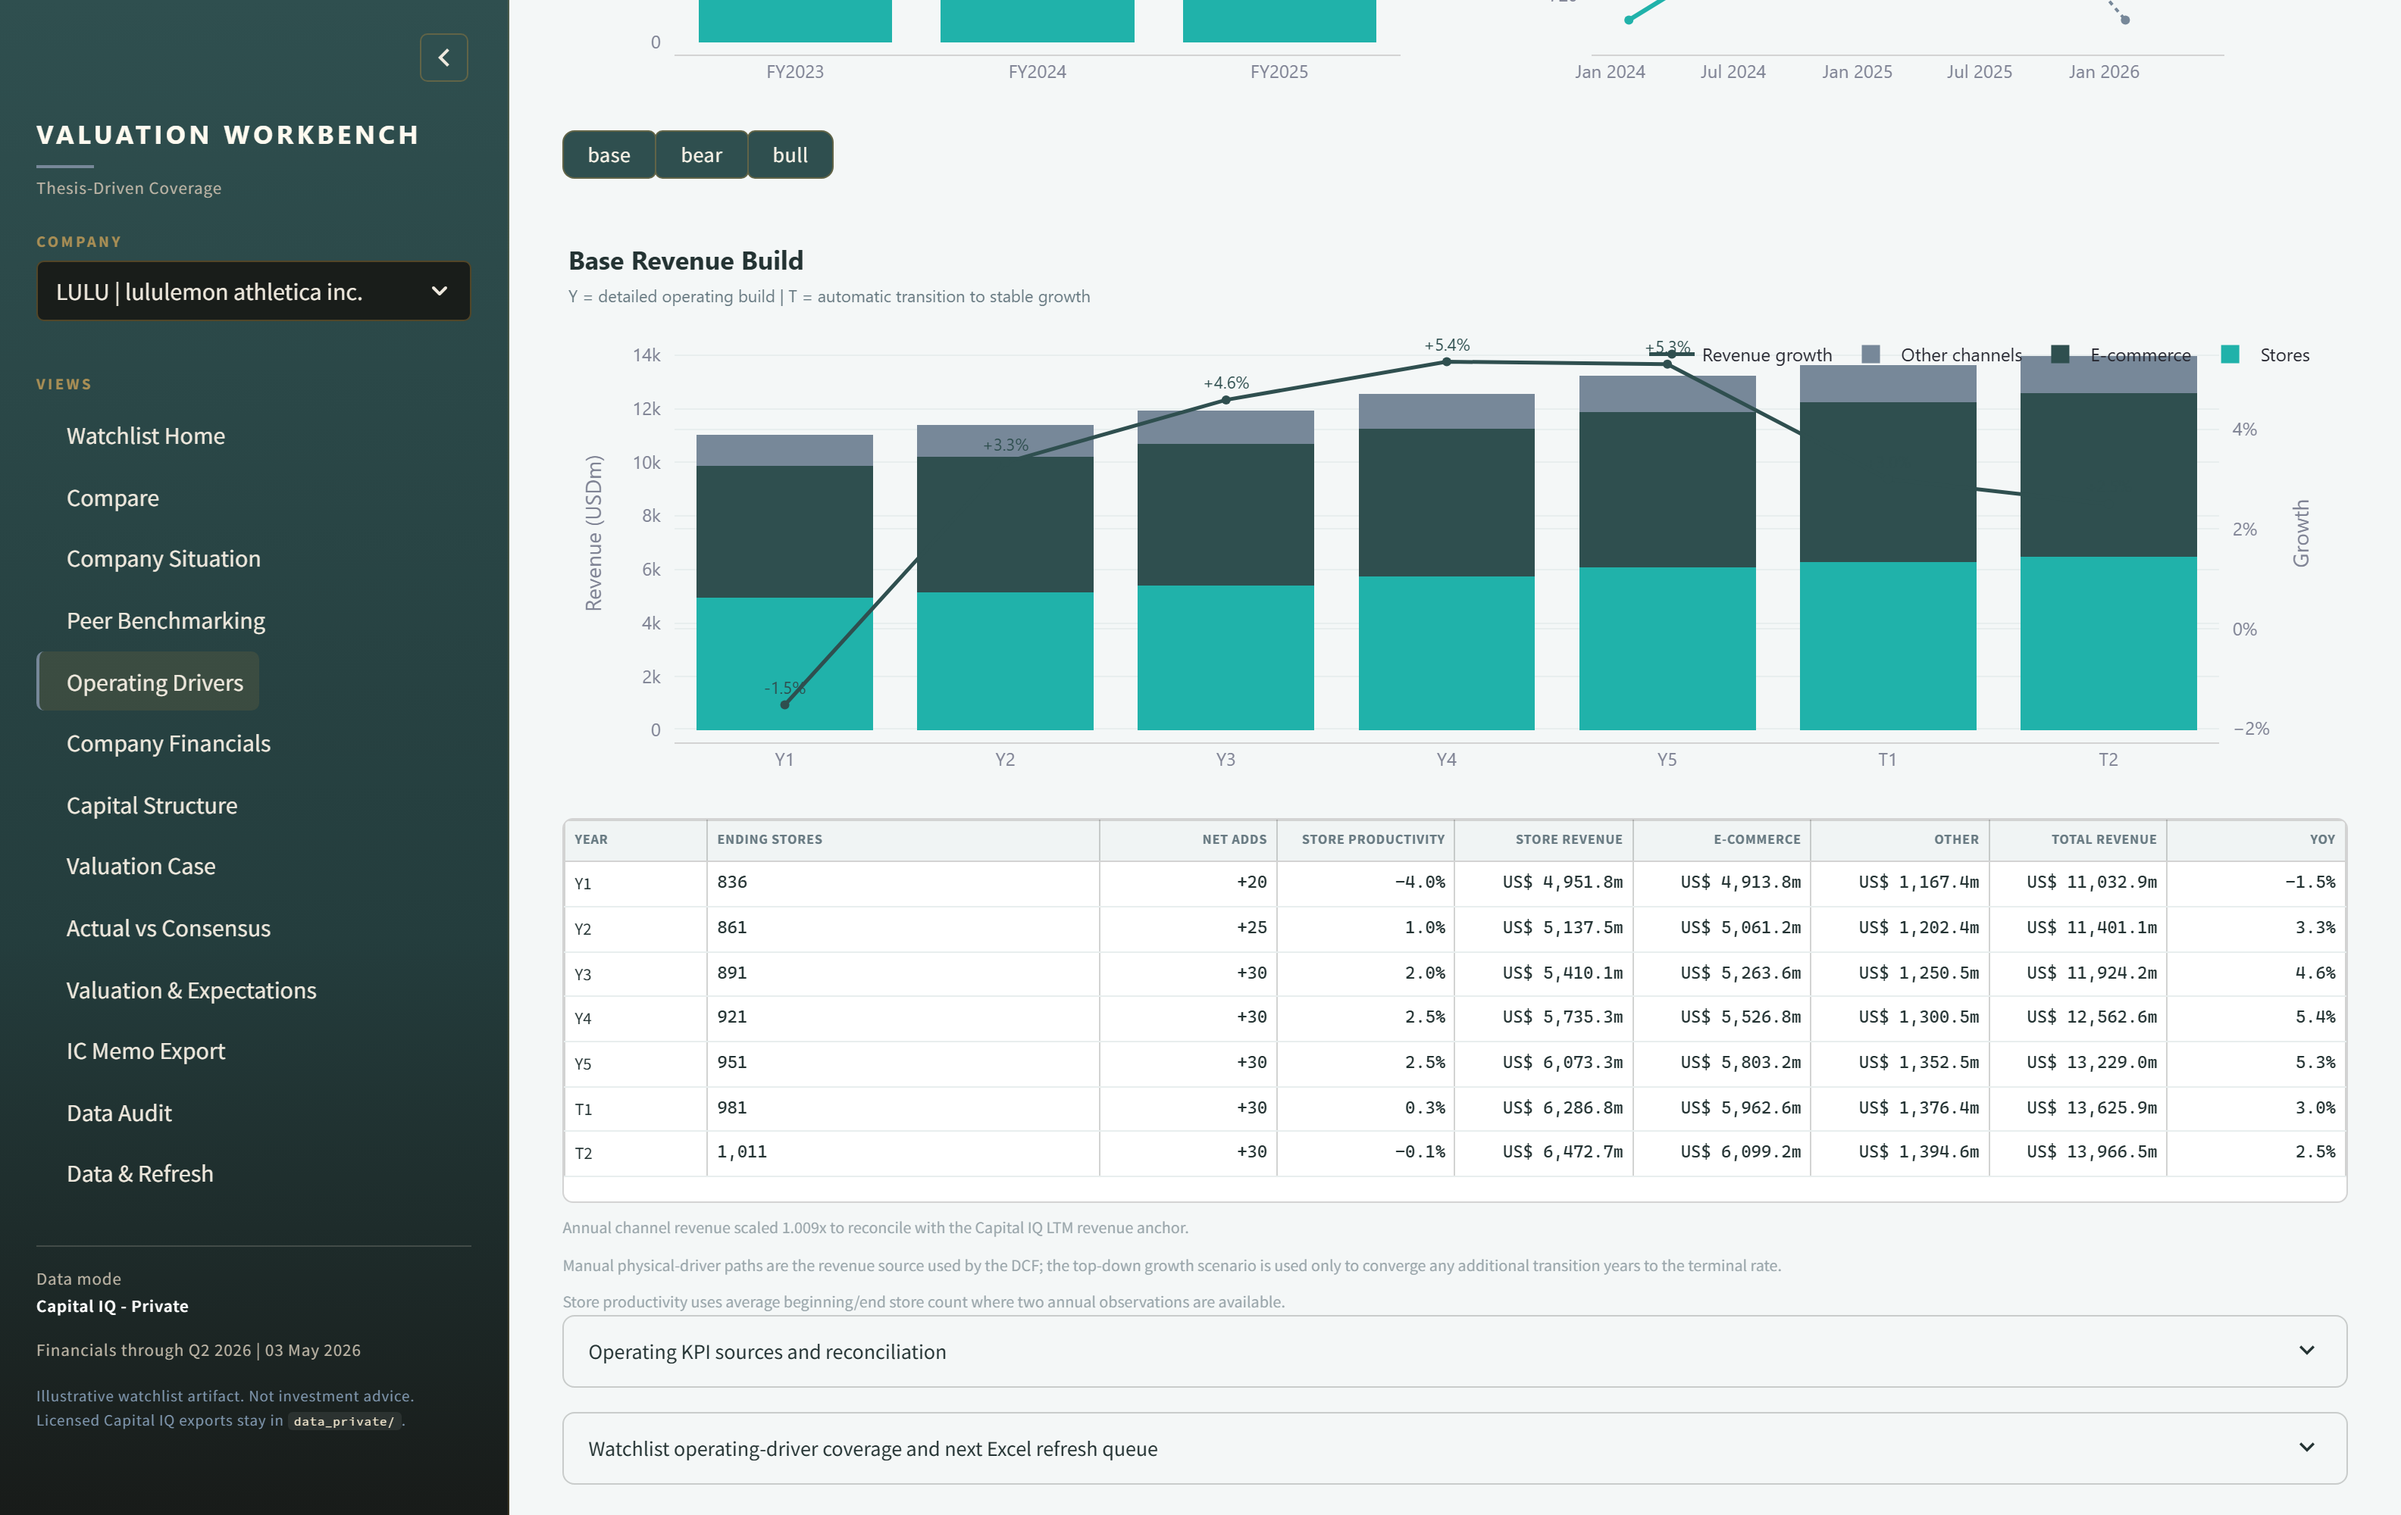
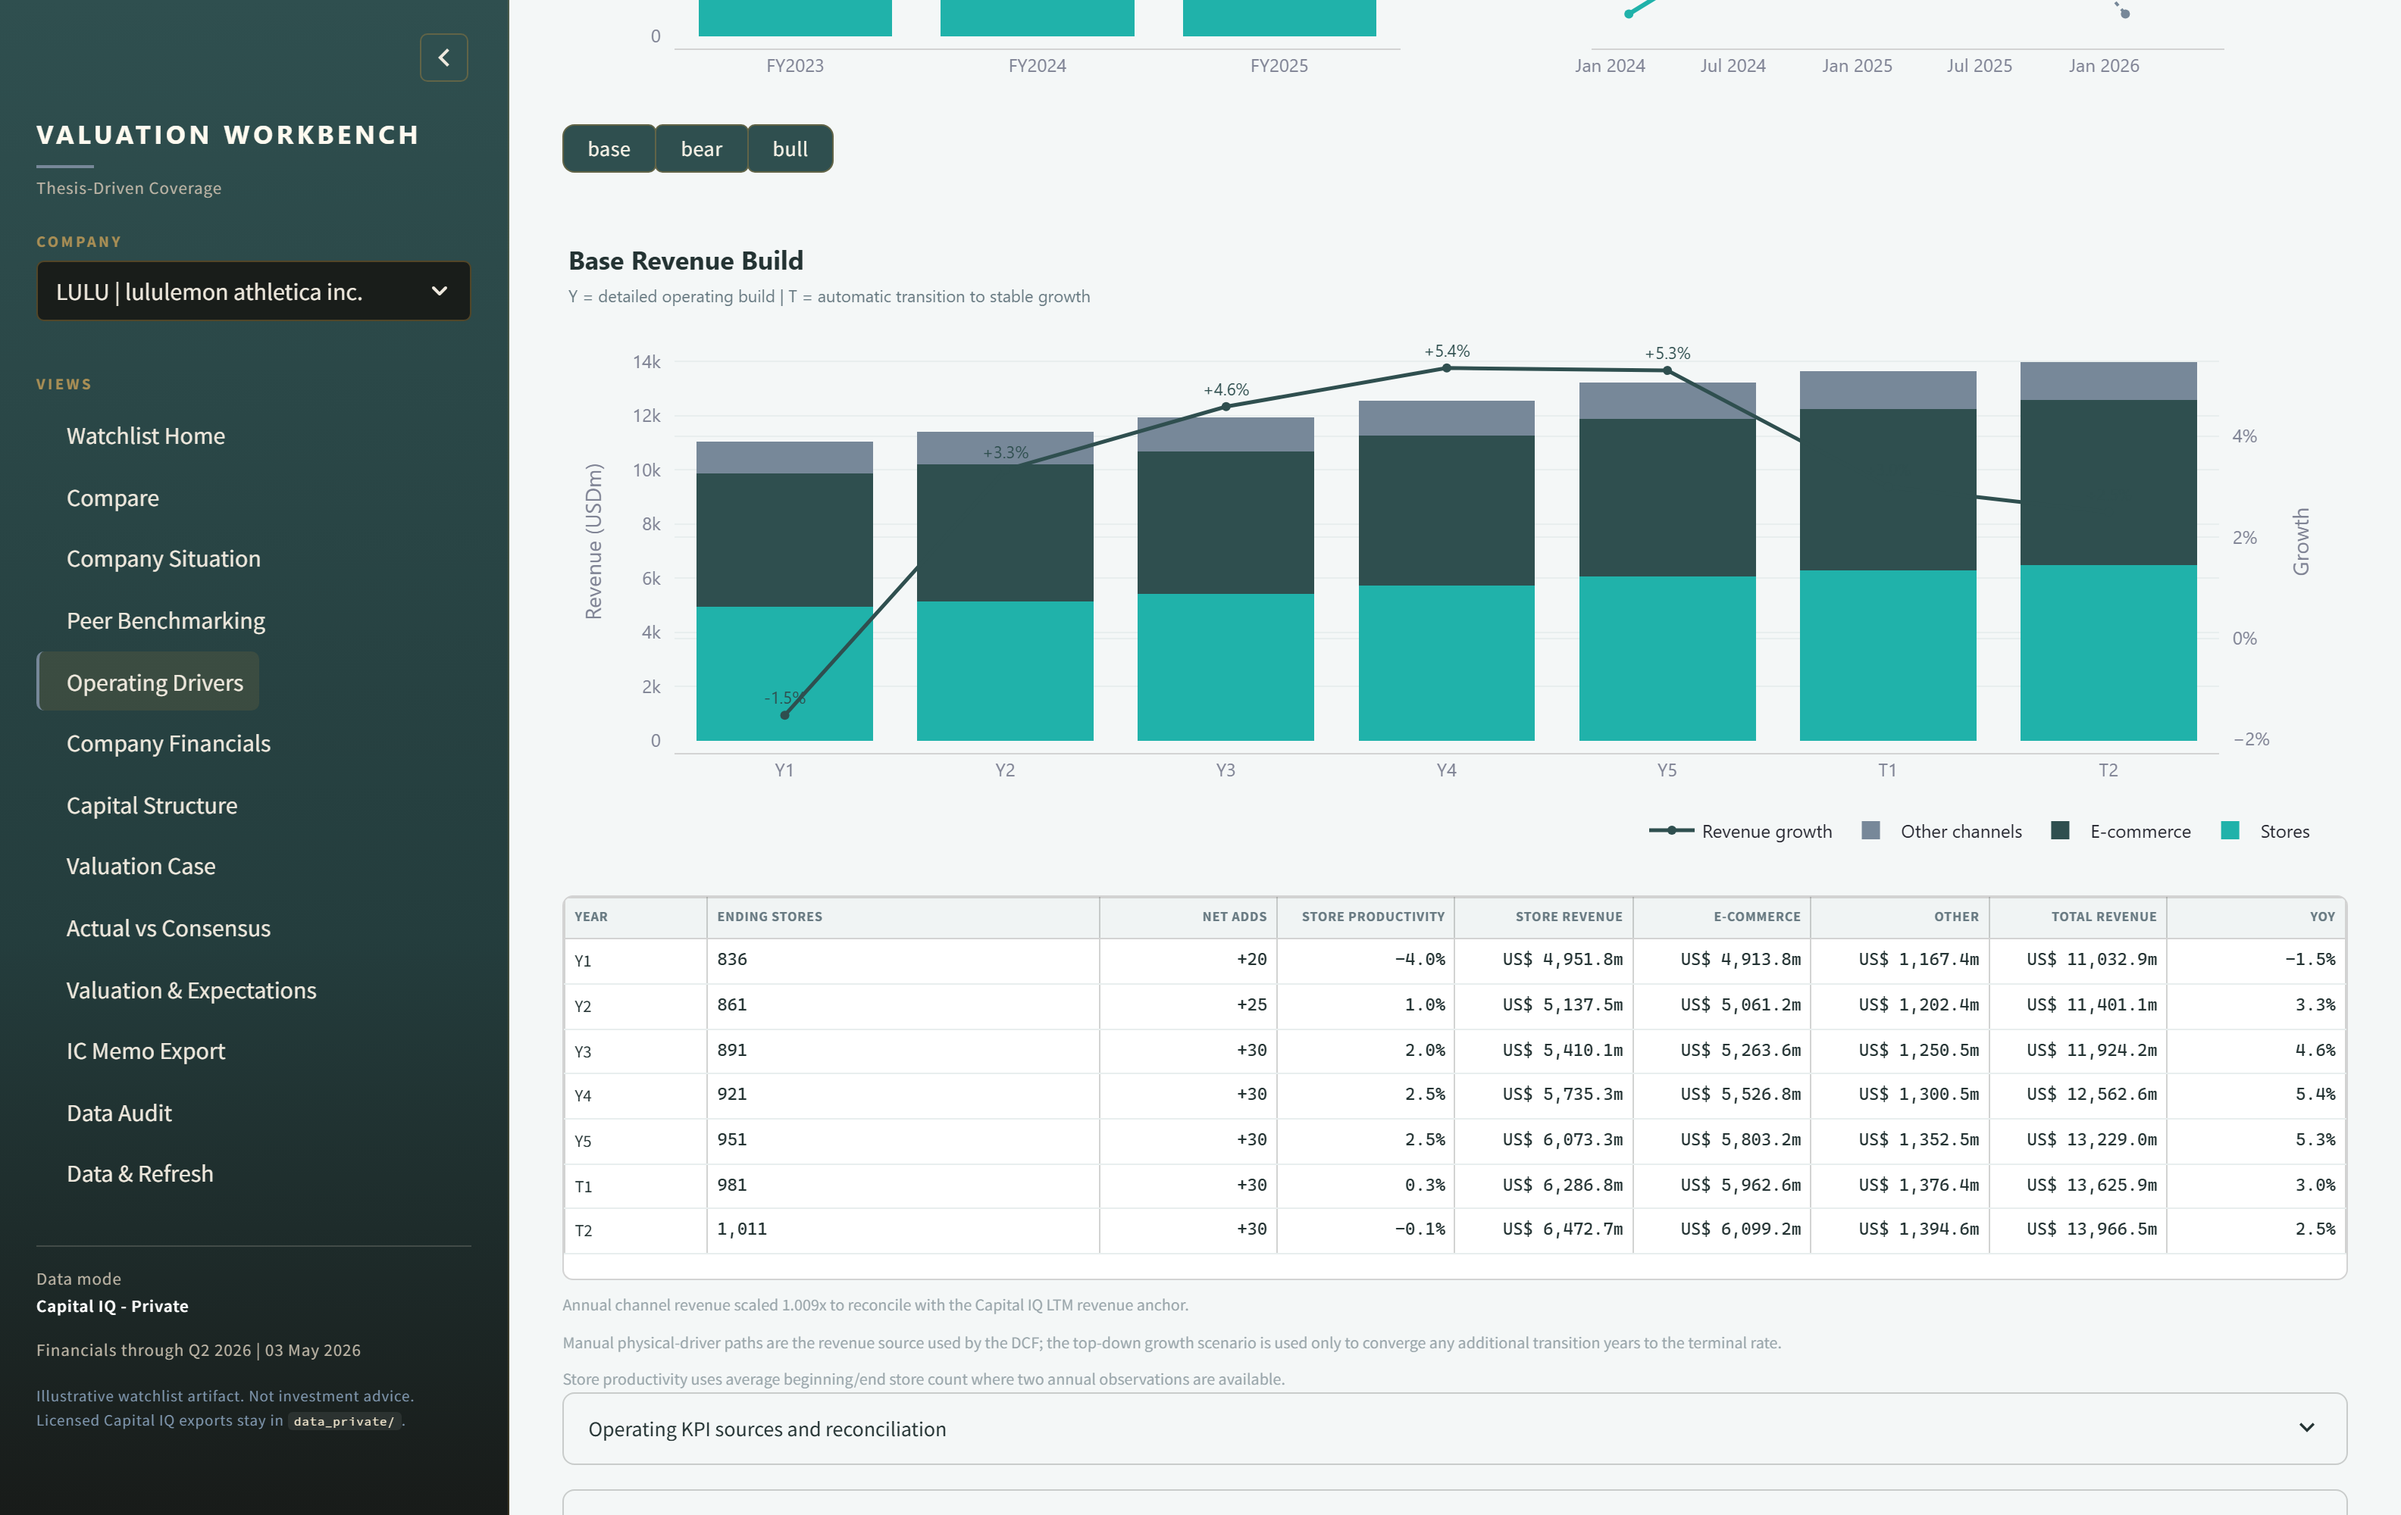
Fix operating driver chart overlap

diff --git a/src/app/operating_driver_view.py b/src/app/operating_driver_view.py
@@ -14,7 +14,17 @@ from src.modeling.assessment import Kpi
 from src.utils import fmt_money, fmt_pct
 
 
-def _style(fig: go.Figure, title: str, subtitle: str, height: int = 350) -> go.Figure:
+def _style(
+    fig: go.Figure,
+    title: str,
+    subtitle: str,
+    height: int = 350,
+    *,
+    top_margin: int = 88,
+    bottom_margin: int = 42,
+    legend_y: float = 1.01,
+    legend_yanchor: str = "bottom",
+) -> go.Figure:
     fig.update_layout(
         title=dict(
             text=f"<b>{title}</b>", x=0, xanchor="left",
@@ -22,11 +32,17 @@ def _style(fig: go.Figure, title: str, subtitle: str, height: int = 350) -> go.F
             font=dict(size=17, family=FONT_SANS, color=PALETTE["ink"]),
         ),
         height=height,
-        margin=dict(l=24, r=20, t=88, b=42),
+        margin=dict(l=24, r=20, t=top_margin, b=bottom_margin),
         paper_bgcolor="rgba(0,0,0,0)",
         plot_bgcolor="rgba(0,0,0,0)",
         font=dict(family=FONT_SANS, color=PALETTE["slate"], size=11),
-        legend=dict(orientation="h", y=1.01, x=1, xanchor="right"),
+        legend=dict(
+            orientation="h",
+            y=legend_y,
+            yanchor=legend_yanchor,
+            x=1,
+            xanchor="right",
+        ),
         hoverlabel=dict(bgcolor=PALETTE["panel"], bordercolor=PALETTE["line"]),
     )
     fig.update_xaxes(showgrid=False, linecolor=PALETTE["line"])
@@ -127,7 +143,7 @@ def _projection_chart(
                 go.Bar(
                     name=label, x=labels, y=projected[column],
                     marker_color=color,
-                    hovertemplate=f"Y%{{x}}<br>{label}: %{{y:,.1f}} {currency}m<extra></extra>",
+                    hovertemplate=f"%{{x}}<br>{label}: %{{y:,.1f}} {currency}m<extra></extra>",
                 ),
                 secondary_y=False,
             )
@@ -139,7 +155,7 @@ def _projection_chart(
             text=[f"{value:+.1%}" for value in projected["revenue_growth"]],
             textposition="top center",
             line=dict(color=PALETTE["slate"], width=2.5),
-            hovertemplate="Y%{x}<br>%{y:+.1%}<extra></extra>",
+            hovertemplate="%{x}<br>%{y:+.1%}<extra></extra>",
         ),
         secondary_y=True,
     )
@@ -150,7 +166,11 @@ def _projection_chart(
         fig,
         f"{scenario.title()} Revenue Build",
         "Y = detailed operating build | T = automatic transition to stable growth",
-        height=390,
+        height=445,
+        top_margin=96,
+        bottom_margin=86,
+        legend_y=-0.17,
+        legend_yanchor="top",
     )
 
 

diff --git a/tests/test_operating_drivers.py b/tests/test_operating_drivers.py
@@ -3,6 +3,7 @@ from __future__ import annotations
 import pandas as pd
 import pytest
 
+from src.app.operating_driver_view import _projection_chart
 from src.modeling.operating_drivers import (
     COMPANY_PROFILE,
     PROFILES,
@@ -209,3 +210,19 @@ def test_operating_driver_fingerprint_changes_with_manual_driver_output():
         )
 
     assert operating_driver_payload(build(5)) != operating_driver_payload(build(10))
+
+
+def test_projection_chart_reserves_space_for_legend_and_growth_labels():
+    row = pd.Series({"company_id": "NASDAQ:LULU", "revenue_ttm": 1200.0})
+    growth = {name: [0.02, 0.03, 0.025] for name in ("bear", "base", "bull")}
+    build = build_operating_driver_model(
+        row, _kpis(), pd.DataFrame(), growth, {}, 3
+    )
+
+    fig = _projection_chart(build, "base", "USD", explicit_years=3)
+
+    assert fig.layout.height >= 440
+    assert fig.layout.margin.b >= 80
+    assert fig.layout.legend.y < 0
+    assert fig.layout.legend.yanchor == "top"
+    assert all("Y%{x}" not in (trace.hovertemplate or "") for trace in fig.data)
